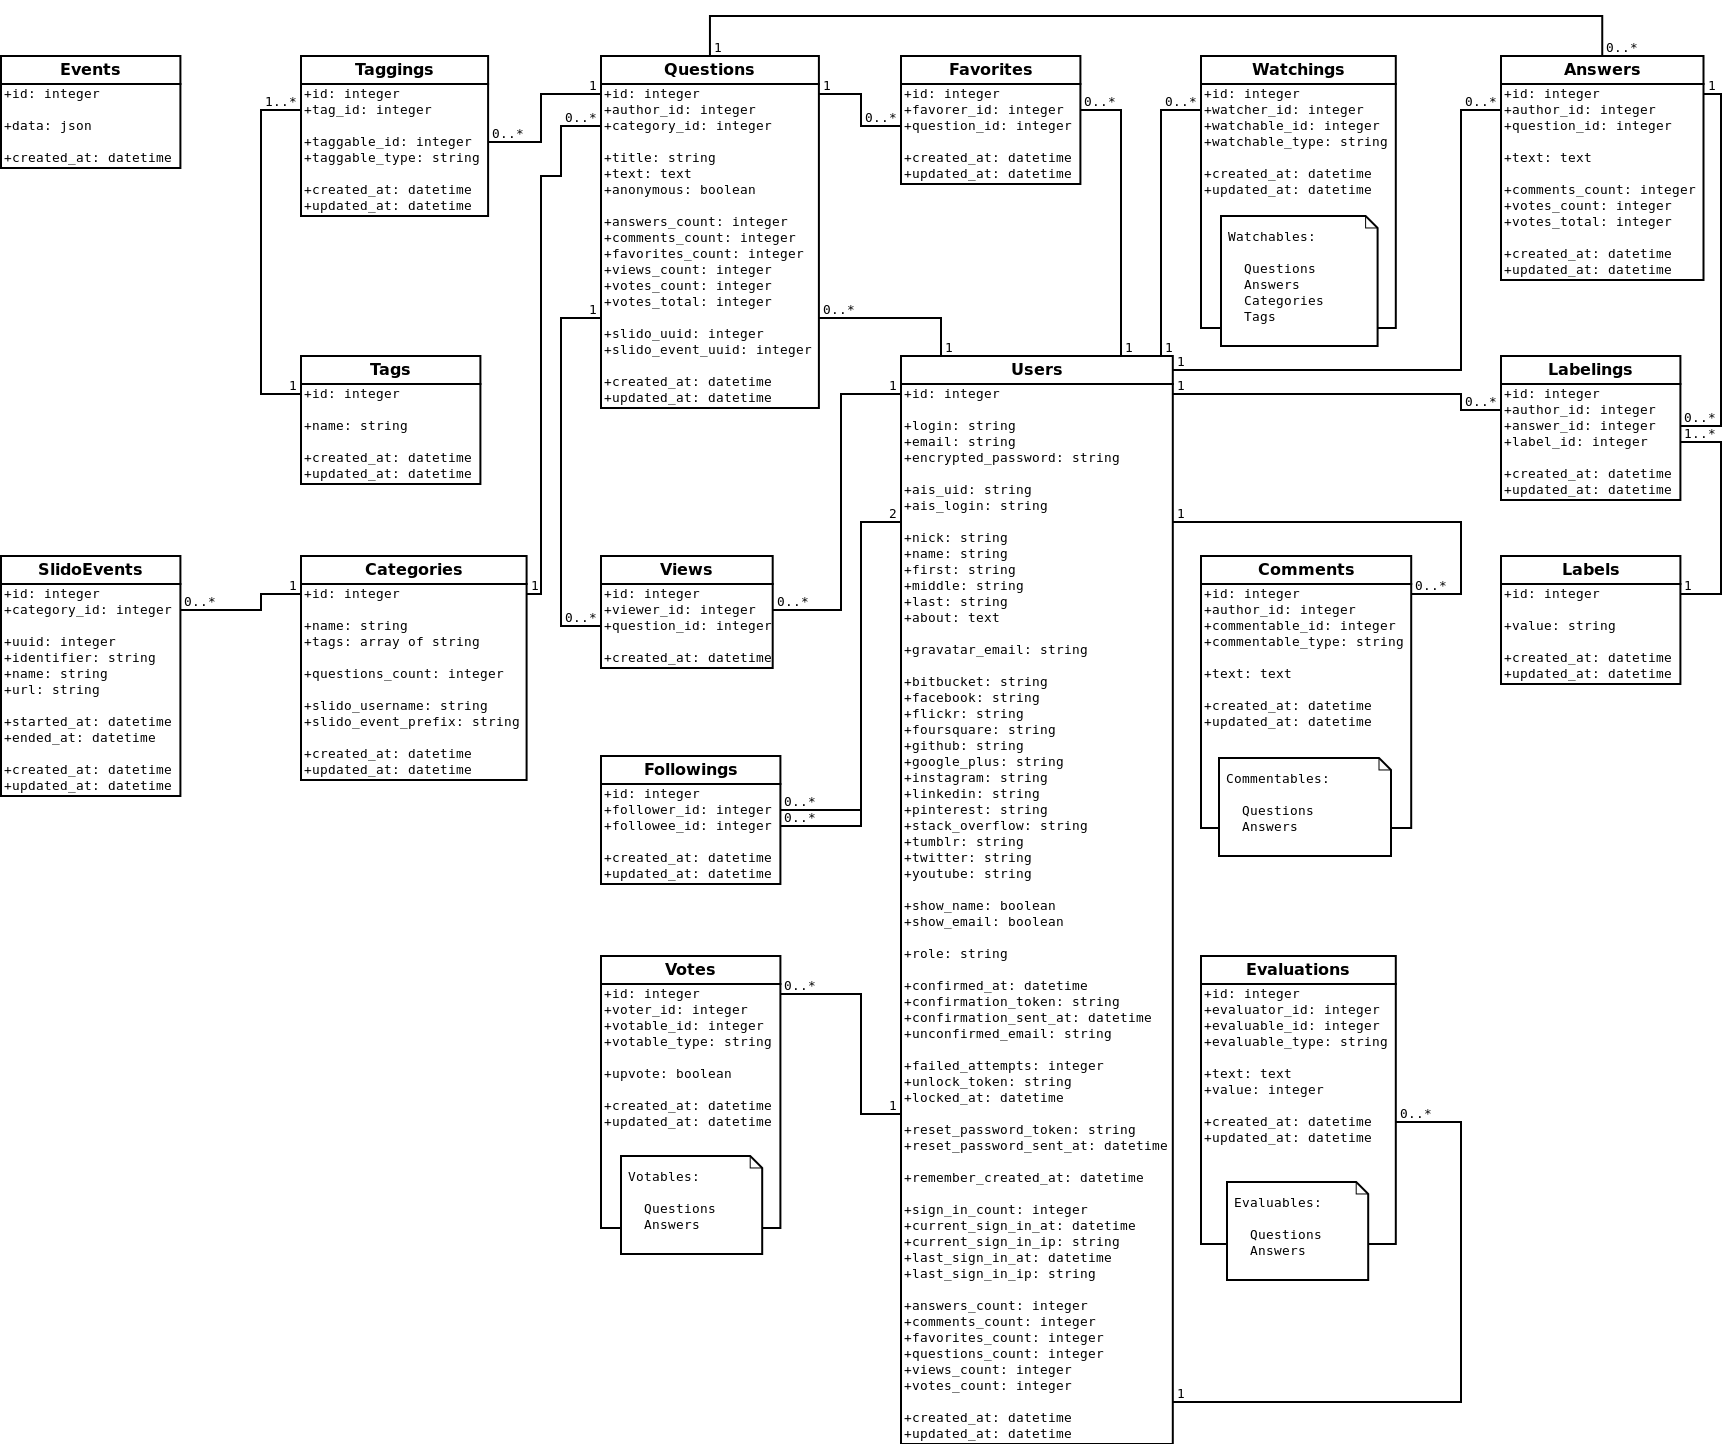
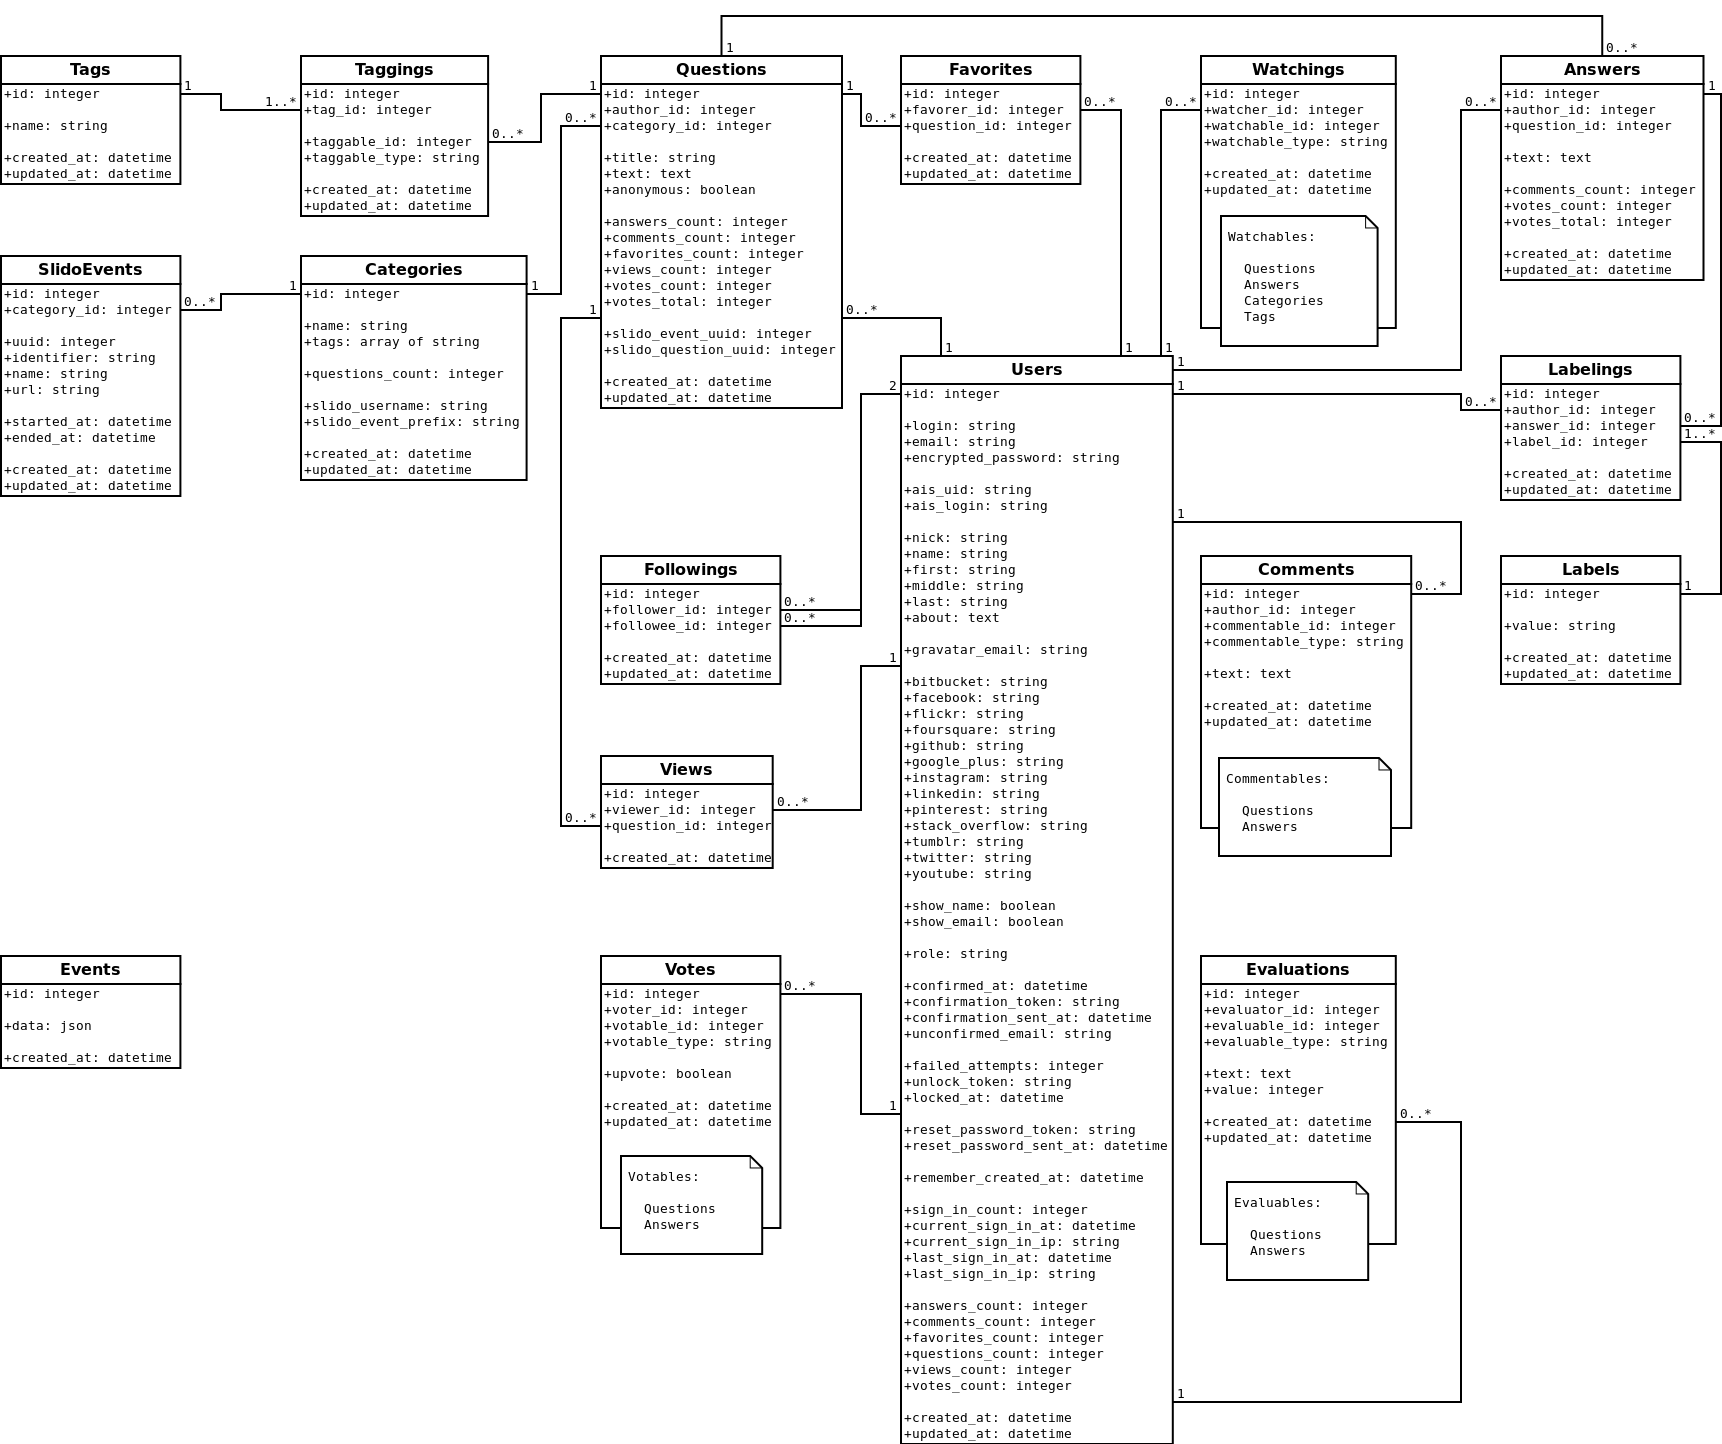
Rename slido_uuid to slido_question_uuid in Question

diff --git a/db/schema.rb b/db/schema.rb
@@ -11,7 +11,7 @@
 #
 # It's strongly recommended that you check this file into your version control system.
 
-ActiveRecord::Schema.define(version: 20140216125125) do
+ActiveRecord::Schema.define(version: 20140216132318) do
 
   # These are extensions that must be enabled in order to support this database
   enable_extension "plpgsql"
@@ -120,26 +120,26 @@ ActiveRecord::Schema.define(version: 20140216125125) do
   add_index "labels", ["value"], name: "index_labels_on_value", unique: true, using: :btree
 
   create_table "questions", force: true do |t|
-    t.integer  "author_id",                        null: false
-    t.integer  "category_id",                      null: false
-    t.string   "title",                            null: false
-    t.text     "text",                             null: false
+    t.integer  "author_id",                           null: false
+    t.integer  "category_id",                         null: false
+    t.string   "title",                               null: false
+    t.text     "text",                                null: false
     t.datetime "created_at"
     t.datetime "updated_at"
-    t.integer  "votes_total",      default: 0,     null: false
-    t.boolean  "anonymous",        default: false, null: false
-    t.integer  "answers_count",    default: 0,     null: false
-    t.integer  "comments_count",   default: 0,     null: false
-    t.integer  "favorites_count",  default: 0,     null: false
-    t.integer  "views_count",      default: 0,     null: false
-    t.integer  "votes_count",      default: 0,     null: false
-    t.integer  "slido_uuid"
+    t.integer  "votes_total",         default: 0,     null: false
+    t.boolean  "anonymous",           default: false, null: false
+    t.integer  "answers_count",       default: 0,     null: false
+    t.integer  "comments_count",      default: 0,     null: false
+    t.integer  "favorites_count",     default: 0,     null: false
+    t.integer  "views_count",         default: 0,     null: false
+    t.integer  "votes_count",         default: 0,     null: false
+    t.integer  "slido_question_uuid"
     t.integer  "slido_event_uuid"
   end
 
   add_index "questions", ["author_id"], name: "index_questions_on_author_id", using: :btree
   add_index "questions", ["category_id"], name: "index_questions_on_category_id", using: :btree
-  add_index "questions", ["slido_uuid"], name: "index_questions_on_slido_uuid", unique: true, using: :btree
+  add_index "questions", ["slido_question_uuid"], name: "index_questions_on_slido_question_uuid", unique: true, using: :btree
   add_index "questions", ["title"], name: "index_questions_on_title", using: :btree
   add_index "questions", ["votes_total"], name: "index_questions_on_votes_total", using: :btree
 

diff --git a/lib/slido/questions/parser.rb b/lib/slido/questions/parser.rb
@@ -7,11 +7,11 @@ module Slido
         data.map do |question|
           result = OpenStruct.new
 
-          result.title            = question[:text]
-          result.text             = question[:text]
-          result.slido_event_uuid = question[:event_id].to_i
-          result.slido_uuid       = question[:event_question_id].to_i
-          result.tag_list         = :slido
+          result.title               = question[:text]
+          result.text                = question[:text]
+          result.slido_event_uuid    = question[:event_id].to_i
+          result.slido_question_uuid = question[:event_question_id].to_i
+          result.tag_list            = :slido
 
           result
         end

diff --git a/spec/lib/slido/questions/parser_spec.rb b/spec/lib/slido/questions/parser_spec.rb
@@ -12,9 +12,9 @@ describe Slido::Questions::Parser do
 
     question = questions.first
 
-    expect(question.title).to             eql('What is the purpose of Life?')
-    expect(question.text).to              eql('What is the purpose of Life?')
-    expect(question.slido_event_uuid).to  eql(1257)
-    expect(question.slido_uuid).to        eql(15807)
+    expect(question.title).to               eql('What is the purpose of Life?')
+    expect(question.text).to                eql('What is the purpose of Life?')
+    expect(question.slido_event_uuid).to    eql(1257)
+    expect(question.slido_question_uuid).to eql(15807)
   end
 end

diff --git a/lib/slido/scraper.rb b/lib/slido/scraper.rb
@@ -27,7 +27,7 @@ module Slido
       questions.each do |question|
         attributes = question.to_h.merge(category_id: category.id, author_id: author.id)
 
-        question = Core::Builder.create_question_by(:slido_uuid, attributes)
+        question = Core::Builder.create_question_by(:slido_question_uuid, attributes)
 
         question.update_attributes!(attributes)
       end

diff --git a/db/migrate/20140216132318_rename_slido_uuid_to_slido_question_uuid_in_questions.rb b/db/migrate/20140216132318_rename_slido_uuid_to_slido_question_uuid_in_questions.rb
@@ -1,0 +1,5 @@
+class RenameSlidoUuidToSlidoQuestionUuidInQuestions < ActiveRecord::Migration
+  def change
+    rename_column :questions, :slido_uuid,  :slido_question_uuid
+  end
+end
